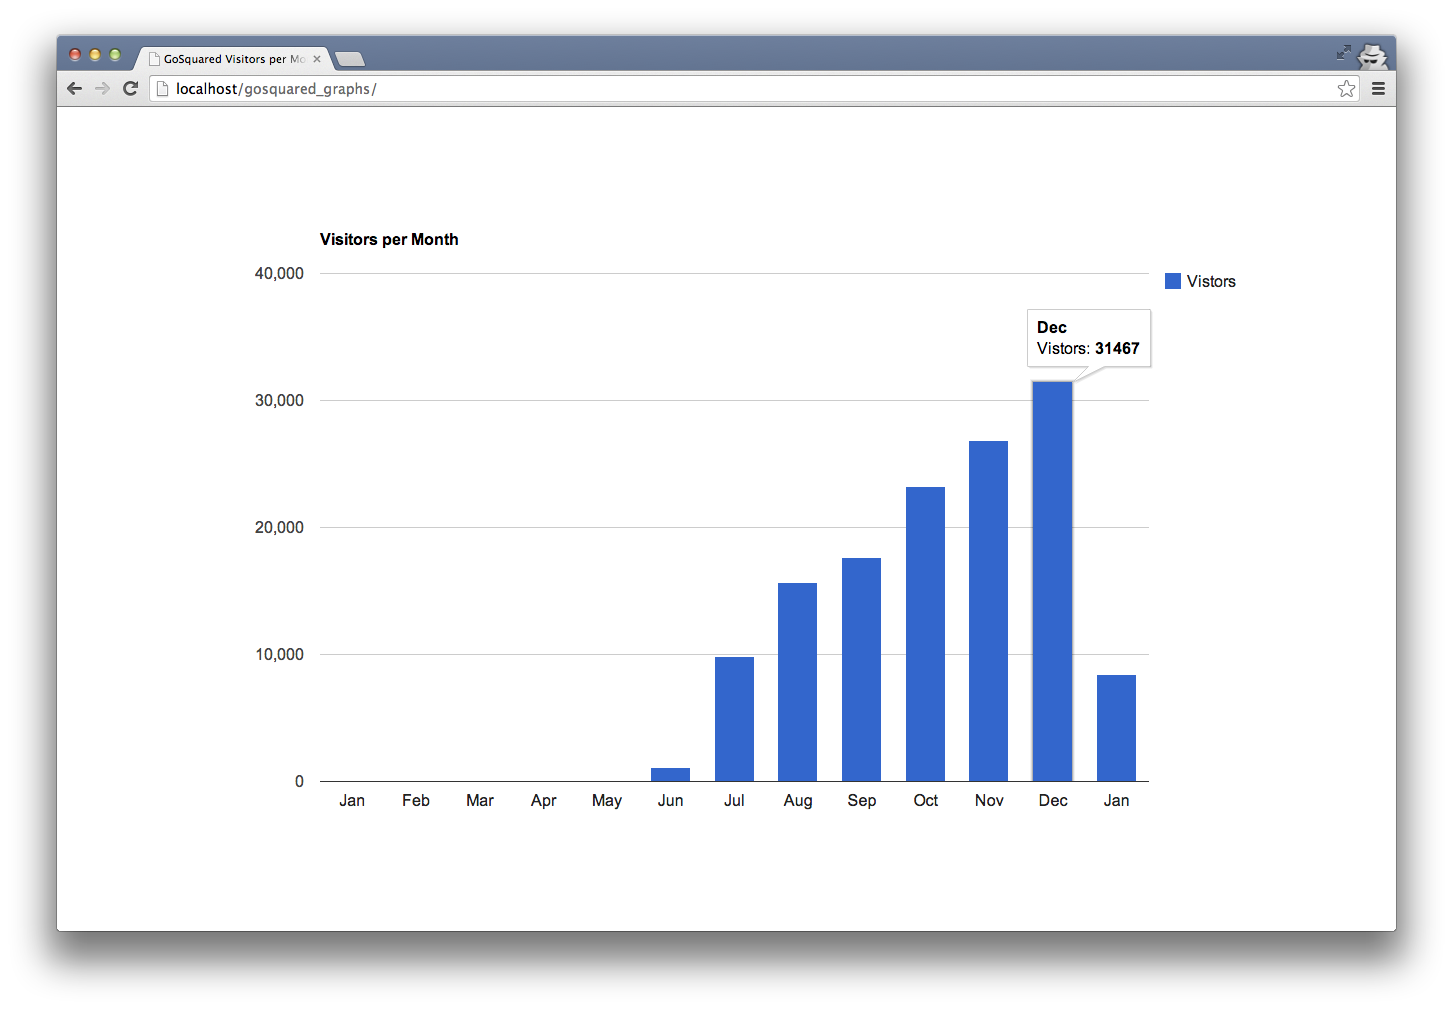
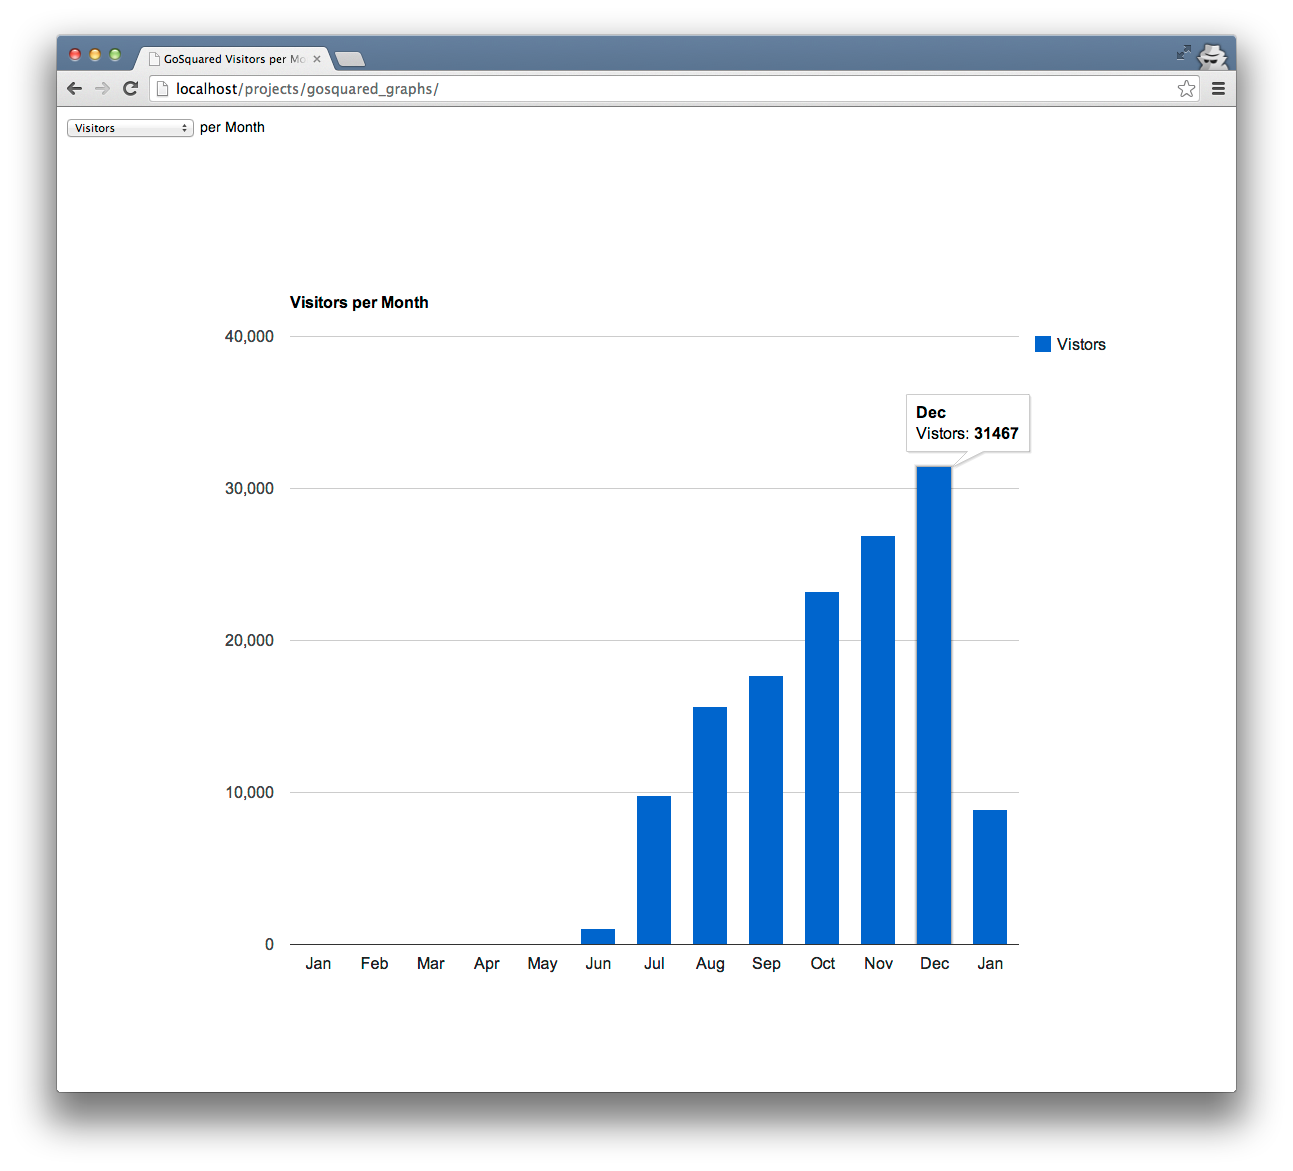
Moved config into separate json file. Added ability to switch graph type.

diff --git a/index.html b/index.html
@@ -5,93 +5,35 @@
 			width: 100%;
 			height: 100%;
 		}
+
+		h1 {
+			font-size: .9em;
+			font-weight: normal;
+			font-family: sans-serif;
+		}
 	</style>
 	<title>GoSquared Visitors per Month</title>
 </head>
 
 <body>
 
+	<h1>
+		<select id="type">
+			<option value="visits">Visitors</option>
+			<option value="month_uniques">Uniques</option>
+			<option value="pageviews">Page Views</option>
+			<option value="new_visits">New Visitors</option>
+			<option value="returning_visits">Returning Visitors</option>
+		</select>
+		per Month
+	</h1>
 	<div id="chart">Loading..</div>
 
 	<script src="//cdnjs.cloudflare.com/ajax/libs/jquery/1.10.2/jquery.min.js"></script>
 	<script src="//cdnjs.cloudflare.com/ajax/libs/moment.js/2.5.0/moment.min.js"></script>
 	<script src="//www.google.com/jsapi"></script>
 	<script src="js/gosquared.min.js"></script>
-	<script>
-		// Config
-		// Note: you should keep your api key secret so it's probably best not to make this page public!
-		var API_KEY = 'YOUR API KEY';
-		var SITE_TOKEN = 'YOUR SITE TOKEN';
-		var MONTHS = 12;
-
-		$.GoSquared({
-			api_key: API_KEY,
-			site_token: SITE_TOKEN,
-		});
-
-		// Get the monthly visits data
-		$.GoSquared.trends.v2.aggregate({
-			from: +moment().subtract('months', MONTHS),
-			to: +new Date(),
-			interval: 'month'
-		}, function(error, data) {
-
-			// Did something go wrong? :(
-			if (error) {
-
-				alert('Error! See the console for more info..');
-				console.log(error);
-
-			}
-
-			var month_views = [], i = 0;
-
-			// Loop through the data and get the number of vists for each month
-			for (var key in data.list) {
-
-				month_views[i] = {
-					month: moment(data.list[key].to).format('MMM'),
-					visitors: data.list[key].metrics.visits
-				};
-
-				i++;
-
-			}
-
-			// Load the Visualization API and the piechart package.
-			google.load('visualization', '1.0', {
-				packages: ['corechart'],
-				callback: function() {
-
-					// Create the data table structure
-					var chart_data = new google.visualization.DataTable();
-					chart_data.addColumn('string', 'Month');
-					chart_data.addColumn('number', 'Vistors');
-
-					// Add all the visitor data to it
-					for (var key in month_views) {
-
-						chart_data.addRow([
-							month_views[key].month,
-							month_views[key].visitors
-						]);
-
-					}
-
-					// Set chart options
-					var options = {
-						title: 'Visitors per Month'
-					};
-
-					// Instantiate and draw our chart, passing in some options.
-					var chart = new google.visualization.ColumnChart(document.getElementById('chart'));
-					chart.draw(chart_data, options);
-
-				}
-			});
-
-		});
-	</script>
+	<script src="js/gosquared-visitor-graphs.js"></script>
 
 </body>
 </html>

diff --git a/js/gosquared-visitor-graphs.js b/js/gosquared-visitor-graphs.js
@@ -1,0 +1,98 @@
+(function() {
+
+	function drawChart(data, options) {
+
+		var month_views = [], i = 0;
+
+		// Loop through the data and get the number of vists for each month
+		for (var key in data.list) {
+
+			month_views[i] = {
+				month: moment(data.list[key].to).format('MMM'),
+				data: data.list[key].metrics[options.type]
+			};
+
+			i++;
+
+		}
+
+		// Load the Visualization API and the piechart package.
+		google.load('visualization', '1.0', {
+			packages: ['corechart'],
+			callback: function() {
+
+				// Create the data table structure
+				var chart_data = new google.visualization.DataTable();
+				chart_data.addColumn('string', 'Month');
+				chart_data.addColumn('number', 'Vistors');
+
+				// Add all the visitor data to it
+				for (var key in month_views) {
+
+					chart_data.addRow([
+						month_views[key].month,
+						month_views[key].data
+					]);
+
+				}
+
+				// Instantiate and draw our chart, passing in some options.
+				var chart = new google.visualization.ColumnChart(document.getElementById('chart'));
+				chart.draw(chart_data, {
+					title: options.title + ' per Month'
+				});
+
+			}
+		});
+
+	}
+
+	// Note: you should keep your api key secret so it's probably best not to make this page public!
+	$.getJSON('config.json', function(config) {
+
+		$.GoSquared({
+			api_key: config.api_key,
+			site_token: config.site_token,
+		});
+
+		// Get the monthly visits data
+		$.GoSquared.trends.v2.aggregate({
+			from: +moment().subtract('months', config.months),
+			to: +new Date(),
+			interval: 'month'
+		}, function(error, data) {
+
+			// Did something go wrong? :(
+			if (error) {
+
+				alert('Error! See the console for more info..');
+				console.log(error);
+
+			}
+
+			// If not, draw the requested chart!
+			drawChart(data, {
+				type: 'visits',
+				title: 'Visitors'
+			});
+
+			// And handle when the type is changed!
+			$('#type').on('change', function() {
+
+				// Get the type and title selected
+				var $this = $(this);
+				var type = $(this).val(),
+					title = $(this).find(':selected').text();
+
+				drawChart(data, {
+					type: type,
+					title: title
+				});
+
+			});
+
+		});
+
+	});
+
+})();

diff --git a/README.md b/README.md
@@ -1,12 +1,12 @@
 GoSquared Visitor Graphs
 =======================
 
-A very simple page to visualise visitors to your site over time using the GoSquared API. In it's default configuration you are shown the total visitors per month for the past 12 months although it should be pretty simple to work out how to change it show unique visitors for example (See: https://github.com/gosquared/gosquared-jquery).
+A very simple page to visualise visitor statistics for your site on a month by month basic using the GoSquared API. Makes use of https://github.com/gosquared/gosquared-jquery.
 
 Usage
 =====
 
-Set the ````API_KEY```` and ````SITE_TOKEN```` variables in index.html to that of your own site and away you go!
+Create your own config.json file based off config.example.json and fill out the details.
 
 Screenshots
 ===========
